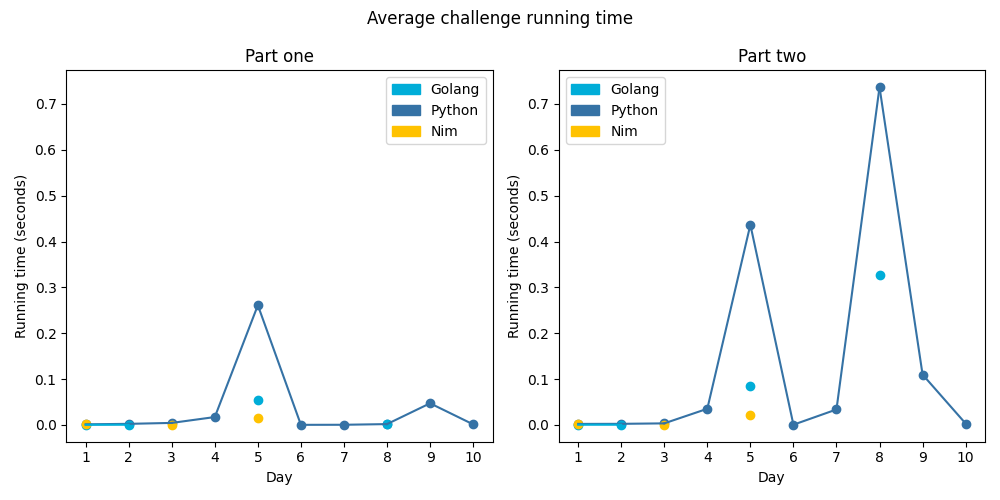
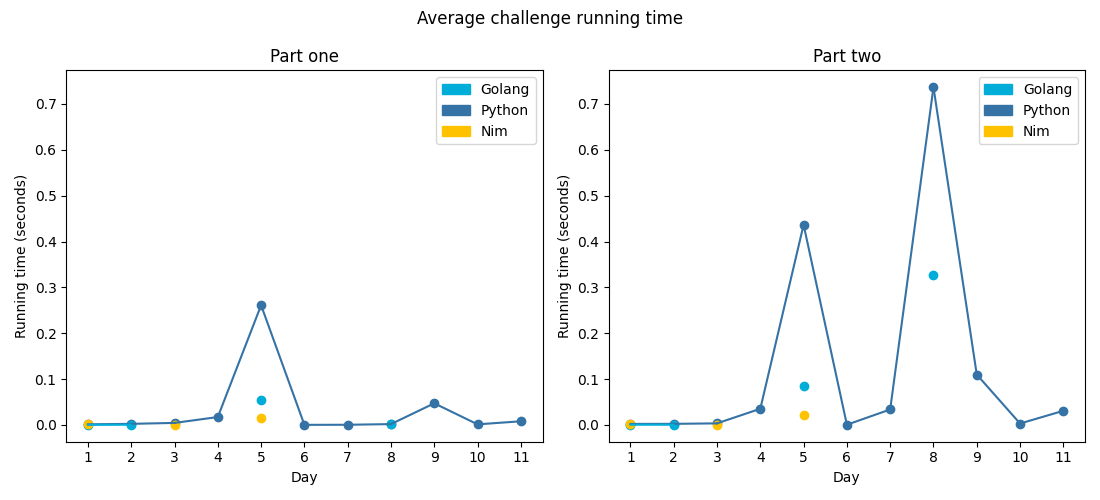
Add 2021-11 in Python

diff --git a/challenges/2021/11-dumboOctopus/py/__init__.py b/challenges/2021/11-dumboOctopus/py/__init__.py
@@ -1,0 +1,90 @@
+from typing import Dict, Tuple, List
+from aocpy import BaseChallenge
+
+Point = Tuple[int, int]
+Cave = Dict[Point, int]
+
+def parse(instr: str) -> Cave:
+    # I would be lying if I said I didn't copy this from day 9
+    o = {}
+    for y, line in enumerate(instr.strip().splitlines()):
+        for x, digit in enumerate(line):
+            o[(x, y)] = int(digit)
+    return o
+
+def print_cave(cave: Cave):
+    max_x = max(x for x, y in cave)
+    max_y = max(y for x, y in cave)
+    for y in range(max_y+1):
+        for x in range(max_x+1):
+            print(cave[(x, y)], end="")
+        print(flush=True)
+    print()
+
+
+def get_adjacent_points(point: Point) -> List[Point]:
+    x, y = point
+    return [(x, y - 1), (x - 1, y), (x + 1, y), (x, y + 1), (x-1, y-1), (x+1, y+1), (x-1, y+1), (x+1, y-1)]
+
+
+def iterate(cave: Cave) -> Tuple[Cave, int, bool]:
+    
+    for point in cave:
+        cave[point] = cave[point] + 1
+
+    updates = {}
+    has_flashed = []
+
+    def handle_nine(point: Point):
+        updates[point] = 0
+        has_flashed.append(point)
+        for adjacent in get_adjacent_points(point):
+            if adjacent not in cave:
+                continue
+            
+            previous_value = cave[adjacent]
+            if adjacent in updates:
+                previous_value = updates[adjacent]
+
+            updates[adjacent] = previous_value + 1
+
+            if previous_value + 1 > 9 and adjacent not in has_flashed:
+                handle_nine(adjacent)
+
+    for point in cave:
+        if cave[point] > 9:
+            if point not in has_flashed:
+                handle_nine(point)
+
+    for point in updates:
+        cave[point] = updates[point]
+
+    for point in has_flashed:
+        cave[point] = 0
+
+    return cave, len(has_flashed), len(has_flashed) == len(cave)
+
+
+class Challenge(BaseChallenge):
+
+    @staticmethod
+    def one(instr: str) -> int:
+        cave = parse(instr)
+        sigma = 0
+        for _ in range(100):
+            c, n, _ = iterate(cave)
+            cave = c
+            sigma += n
+        return sigma
+
+    @staticmethod
+    def two(instr: str) -> int:
+        cave = parse(instr)
+        i = 0
+        while True:
+            i += 1
+            c, _, all_flashed = iterate(cave)
+            if all_flashed:
+                break
+            cave = c
+        return i

diff --git a/challenges/2021/README.md b/challenges/2021/README.md
@@ -20,6 +20,7 @@ Solutions to the [2021 Advent of Code](https://adventofcode.com/2021).
 | 08 - Seven Segment Search           | Complete           | [Python](08-sevenSegmentSearch/py), [Go](08-sevenSegmentSearch)                                         | I may have taken the easy way out for part two, but it does work! No-one ever said the smart solution is the best solution, anyway. |
 | 09 - Smoke Basin \*                 | Complete           | [Python](09-smokeBasin/py)                                                                              | Schmokey! Also, as it turns out, I struggle to implement basic logic. Fun.                                                          |
 | 10 - Syntax Scoring                 | Complete           | [Python](10-syntaxScoring/py)                                                                           | I can't say I've ever broken something so thoroughly that it has a syntax error on *every* line...                                  |
+| 11 - Dumbo Octopus                  | Complete           | [Python](11-dumboOctopus/py)                                                                            | Cellular automata my beloved <3                                                                                                     |
 
 <!-- PARSE END -->
 

diff --git a/challenges/2021/11-dumboOctopus/README.md b/challenges/2021/11-dumboOctopus/README.md
@@ -1,0 +1,2 @@
+# [Day 11: Dumbo Octopus](https://adventofcode.com/2021/day/11)
+
